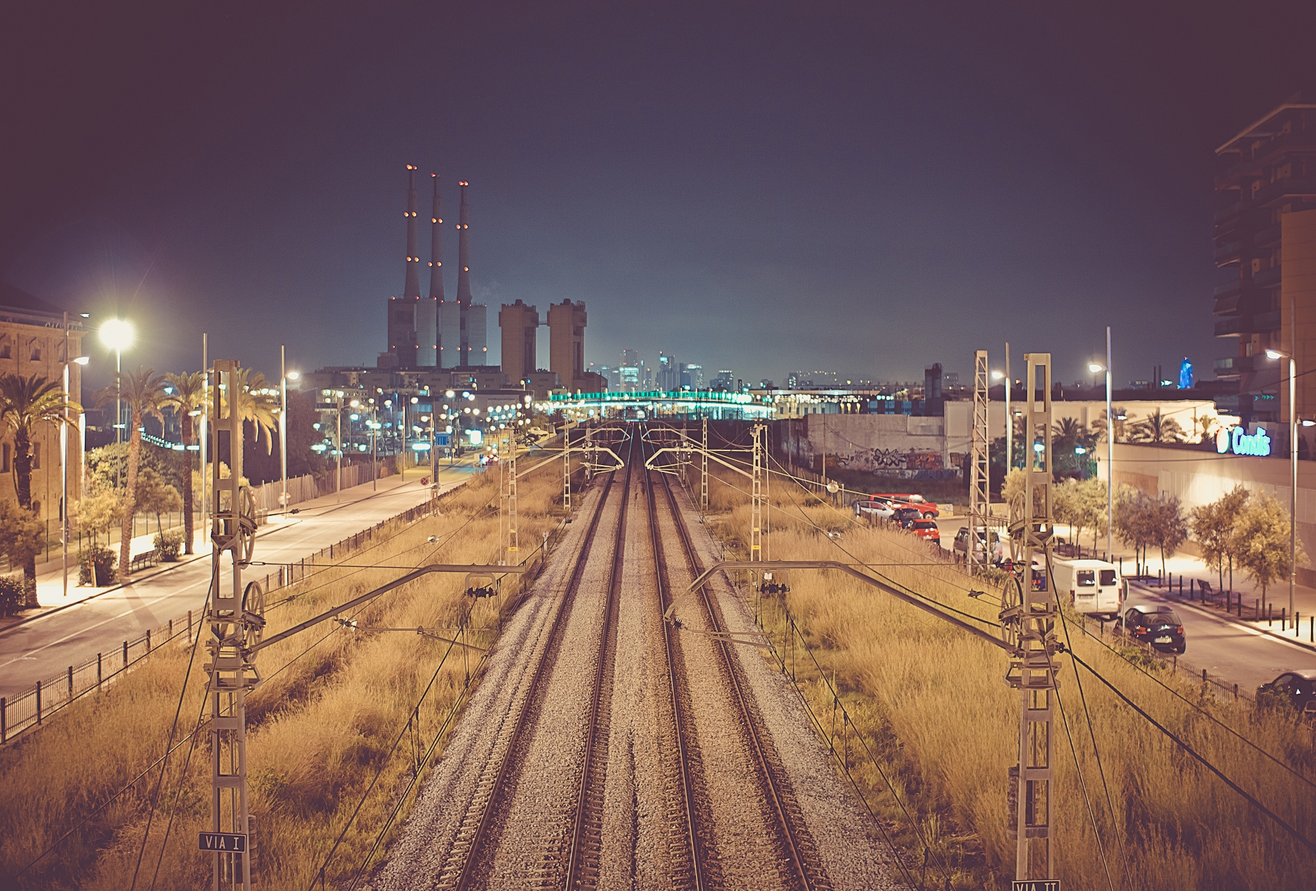
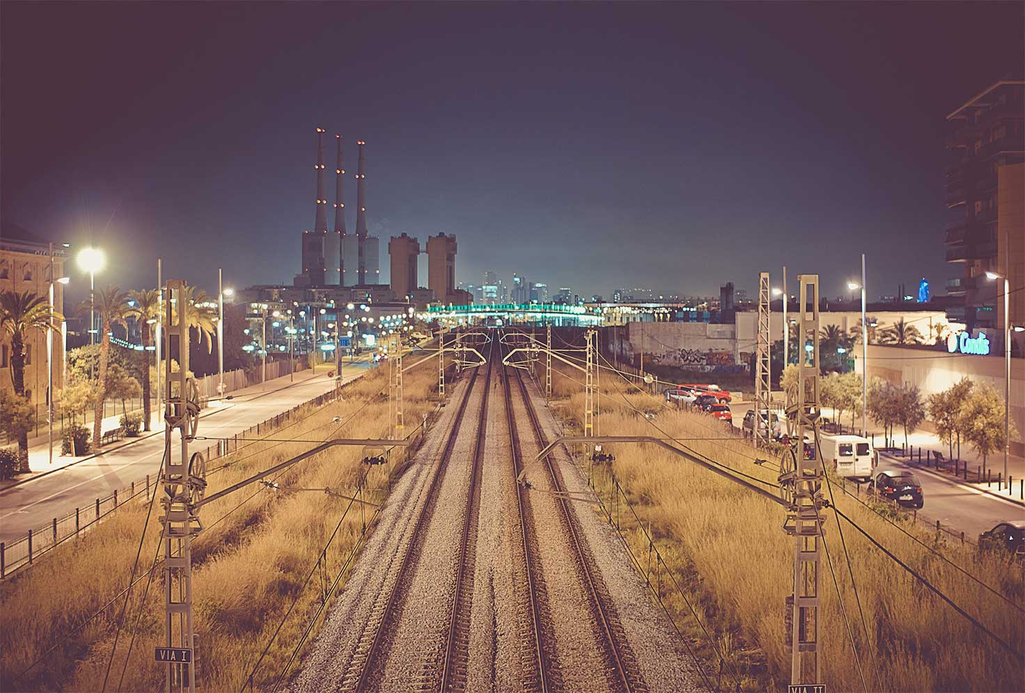
Reducing image sizes

diff --git a/style.min.css b/style.min.css
@@ -1,1 +1,1 @@
-/*! normalize.css v2.1.0 | MIT License | git.io/normalize */article,aside,details,figcaption,figure,footer,header,hgroup,main,nav,section,summary{display:block}audio,canvas,video{display:inline-block}audio:not([controls]){display:none;height:0}[hidden]{display:none}html{font-family:sans-serif;-webkit-text-size-adjust:100%;-ms-text-size-adjust:100%}body{margin:0}a:focus{outline:thin dotted}a:active,a:hover{outline:0}h1{font-size:2em;margin:0.67em 0}abbr[title]{border-bottom:1px dotted}b,strong{font-weight:bold}dfn{font-style:italic}hr{-moz-box-sizing:content-box;box-sizing:content-box;height:0}mark{background:#ff0;color:#000}code,kbd,pre,samp{font-family:monospace, serif;font-size:1em}pre{white-space:pre-wrap}q{quotes:"\201C" "\201D" "\2018" "\2019"}small{font-size:80%}sub,sup{font-size:75%;line-height:0;position:relative;vertical-align:baseline}sup{top:-0.5em}sub{bottom:-0.25em}img{border:0}svg:not(:root){overflow:hidden}figure{margin:0}fieldset{border:1px solid #c0c0c0;margin:0 2px;padding:0.35em 0.625em 0.75em}legend{border:0;padding:0}button,input,select,textarea{font-family:inherit;font-size:100%;margin:0}button,input{line-height:normal}button,select{text-transform:none}button,html input[type="button"],input[type="reset"],input[type="submit"]{-webkit-appearance:button;cursor:pointer}button[disabled],html input[disabled]{cursor:default}input[type="checkbox"],input[type="radio"]{box-sizing:border-box;padding:0}input[type="search"]{-webkit-appearance:textfield;-moz-box-sizing:content-box;-webkit-box-sizing:content-box;box-sizing:content-box}input[type="search"]::-webkit-search-cancel-button,input[type="search"]::-webkit-search-decoration{-webkit-appearance:none}button::-moz-focus-inner,input::-moz-focus-inner{border:0;padding:0}textarea{overflow:auto;vertical-align:top}table{border-collapse:collapse;border-spacing:0}@font-face{font-family:'fonticon';src:url("fonts/fonticon.eot?29587551");src:url("fonts/fonticon.eot?29587551#iefix") format("embedded-opentype"),url("fonts/fonticon.woff?29587551") format("woff"),url("fonts/fonticon.ttf?29587551") format("truetype"),url("fonts/fonticon.svg?29587551#fonticon") format("svg");font-weight:normal;font-style:normal}[class^="icon-"]:before,[class*=" icon-"]:before{font-family:"fonticon";font-style:normal;font-weight:normal;speak:none;display:inline-block;text-decoration:inherit;width:1em;margin-right:.2em;text-align:center;font-variant:normal;text-transform:none;line-height:1em;margin-left:.2em}.icon-prev:before{content:'\e801'}.icon-next:before{content:'\e800'}h1,h2,h3,h4,h5,h6,hgroup,p,ul,ol,dl,address,table,fieldset,figure,pre,hr,.media,.island,.islet,.landmark,dd,.h1,.h2,.h3,.h4,.h5,.h6{margin:0;padding:0}h1,h2,h3,h4,h5,h6,hgroup,p,ul,ol,dl,address,table,fieldset,figure,pre,hr,.media,.island,.islet,.landmark,dd,.h1,.h2,.h3,.h4,.h5,.h6{margin-bottom:24px;margin-bottom:1.5rem}.islet h1,.islet h2,.islet h3,.islet h4,.islet h5,.islet h6,.islet hgroup,.islet p,.islet ul,.islet ol,.islet dl,.islet address,.islet table,.islet fieldset,.islet figure,.islet pre,.islet hr,.islet .media,.islet .island,.islet .islet{margin-bottom:12px;margin-bottom:0.75rem}.landmark{margin-bottom:48px;margin-bottom:3rem}hr{margin-top:24px;margin-top:1.5rem}ul,ol,dd{margin-left:48px;margin-left:3rem}*,*:before,*:after{-webkit-box-sizing:border-box;-moz-box-sizing:border-box;-ms-box-sizing:border-box;-o-box-sizing:border-box;box-sizing:border-box}html{font-size:1em;line-height:1.5}body{font-family:sans-serif;-webkit-font-smoothing:antialiased}h1,h2,h3,h4,h5,h6{font-family:sans-serif;font-weight:500;font-style:normal;text-rendering:optimizeLegibility}h1 small,h2 small,h3 small,h4 small,h5 small,h6 small{font-size:80%}h1,.h1{font-size:48px;font-size:3rem;line-height:1}h2,.h2{font-size:36px;font-size:2.25rem;line-height:1.3333333}h3,.h3{font-size:30px;font-size:1.875rem;line-height:1.6}h4,.h4{font-size:24px;font-size:1.5rem;line-height:1}h5,.h5{font-size:20px;font-size:1.25rem;line-height:1.2}h6,.h6{font-size:18px;font-size:1.125rem;line-height:1.3333333}.lead{font-size:18px;font-size:1.125rem}@-webkit-keyframes sliderBegin{from{left:-31.4%}to{left:-56%}}@-moz-keyframes sliderBegin{from{left:-31.4%}to{left:-56%}}@-ms-keyframes sliderBegin{from{left:-31.4%}to{left:-56%}}@keyframes sliderBegin{from{left:-31.4%}to{left:-56%}}@-webkit-keyframes sliderEnd{from{left:110%}to{left:100.85%}}@-moz-keyframes sliderEnd{from{left:110%}to{left:100.85%}}@-ms-keyframes sliderEnd{from{left:110%}to{left:100.85%}}@keyframes sliderEnd{from{left:110%}to{left:100.85%}}@-webkit-keyframes sliderReverseBegin{from{left:100.85%}to{left:125.45%}}@-moz-keyframes sliderReverseBegin{from{left:100.85%}to{left:125.45%}}@-ms-keyframes sliderReverseBegin{from{left:100.85%}to{left:125.45%}}@keyframes sliderReverseBegin{from{left:100.85%}to{left:125.45%}}@-webkit-keyframes sliderReverseEnd{from{left:-40.55%}to{left:-31.4%}}@-moz-keyframes sliderReverseEnd{from{left:-40.55%}to{left:-31.4%}}@-ms-keyframes sliderReverseEnd{from{left:-40.55%}to{left:-31.4%}}@keyframes sliderReverseEnd{from{left:-40.55%}to{left:-31.4%}}.preload{display:none !important}.slider-control__next,.slider-control__next .slider-control--btn{right:0}.slider-control__prev,.slider-control__prev .slider-control--btn{left:0}body{padding-top:52px}@media screen and (min-width: 30.0625em){body{padding-top:88px}}ul,li{margin-top:0;padding-left:0}ul{list-style:none}a{cursor:pointer;text-decoration:none}.content-slider{overflow:hidden;position:relative}.content-slider:hover .slider-control__prev,.content-slider:hover .slider-control__next{-webkit-transform:translateX(0px);-moz-transform:translateX(0px);-ms-transform:translateX(0px);-o-transform:translateX(0px);transform:translateX(0px)}@media screen and (max-width: 48.75em){.content-slider:hover .slider-control__prev{-webkit-transform:translateX(-10px);-moz-transform:translateX(-10px);-ms-transform:translateX(-10px);-o-transform:translateX(-10px);transform:translateX(-10px)}}@media screen and (max-width: 48.75em){.content-slider:hover .slider-control__next{-webkit-transform:translateX(10px);-moz-transform:translateX(10px);-ms-transform:translateX(10px);-o-transform:translateX(10px);transform:translateX(10px)}}.slider{height:320px;position:relative;max-width:1200px;padding:0 20px;margin:0 auto}@media screen and (min-width: 30.0625em){.slider{height:424px}}.mask{overflow:hidden;height:424px}.slider__item{position:absolute;width:30.6%;height:100%;margin:0;-webkit-transition-property:width,left,opacity;-moz-transition-property:width,left,opacity;-ms-transition-property:width,left,opacity;-o-transition-property:width,left,opacity;transition-property:width,left,opacity;-webkit-transition-duration:800ms;-moz-transition-duration:800ms;-ms-transition-duration:800ms;-o-transition-duration:800ms;transition-duration:800ms;-webkit-transition-timing-function:ease;-moz-transition-timing-function:ease;-ms-transition-timing-function:ease;-o-transition-timing-function:ease;transition-timing-function:ease;-webkit-transform:translate3d(0px, 0px, 0px);-moz-transform:translate3d(0px, 0px, 0px);-ms-transform:translate3d(0px, 0px, 0px);-o-transform:translate3d(0px, 0px, 0px);transform:translate3d(0px, 0px, 0px)}.slider__item a{position:relative;display:block;height:100%}.js-at-bat{width:63.6%;left:1.6%;z-index:1}@media screen and (max-width: 61.25em){.js-at-bat{width:100%;left:0}}.js-on-deck{left:67.8%}@media screen and (max-width: 61.25em){.js-on-deck{left:100%;width:100%}}.js-in-the-hole{left:100.85%;-webkit-opacity:0.3;-moz-opacity:0.3;-ms-opacity:0.3;-o-opacity:0.3;opacity:0.3;-webkit-transition:none;-moz-transition:none;-ms-transition:none;-o-transition:none;transition:none;-webkit-animation-name:sliderBegin,sliderEnd;-moz-animation-name:sliderBegin,sliderEnd;-ms-animation-name:sliderBegin,sliderEnd;-o-animation-name:sliderBegin,sliderEnd;animation-name:sliderBegin,sliderEnd;-webkit-animation-duration:400ms;-moz-animation-duration:400ms;-ms-animation-duration:400ms;-o-animation-duration:400ms;animation-duration:400ms;-webkit-animation-timing-function:ease;-moz-animation-timing-function:ease;-ms-animation-timing-function:ease;-o-animation-timing-function:ease;animation-timing-function:ease;-webkit-animation-delay:0,400ms;-moz-animation-delay:0,400ms;-ms-animation-delay:0,400ms;-o-animation-delay:0,400ms;animation-delay:0,400ms}.slider__reverse .js-in-the-hole{-webkit-animation:none;-moz-animation:none;-ms-animation:none;-o-animation:none;animation:none;-webkit-animation-name:none;-moz-animation-name:none;-ms-animation-name:none;-o-animation-name:none;animation-name:none;-webkit-transition-duration:800ms;-moz-transition-duration:800ms;-ms-transition-duration:800ms;-o-transition-duration:800ms;transition-duration:800ms;-webkit-transition-property:width,left,opacity;-moz-transition-property:width,left,opacity;-ms-transition-property:width,left,opacity;-o-transition-property:width,left,opacity;transition-property:width,left,opacity;-webkit-animation-timing-function:ease;-moz-animation-timing-function:ease;-ms-animation-timing-function:ease;-o-animation-timing-function:ease;animation-timing-function:ease}.js-last-up{left:-31.4%;-webkit-opacity:0.3;-moz-opacity:0.3;-ms-opacity:0.3;-o-opacity:0.3;opacity:0.3}@media screen and (max-width: 61.1875em){.js-last-up{left:-100%;width:100%;-webkit-opacity:1;-moz-opacity:1;opacity:1}}.slider__reverse .js-last-up{-webkit-transition:none;-moz-transition:none;-ms-transition:none;-o-transition:none;transition:none;-webkit-animation-name:sliderReverseBegin,sliderReverseEnd;-moz-animation-name:sliderReverseBegin,sliderReverseEnd;-ms-animation-name:sliderReverseBegin,sliderReverseEnd;-o-animation-name:sliderReverseBegin,sliderReverseEnd;animation-name:sliderReverseBegin,sliderReverseEnd;-webkit-animation-duration:400ms;-moz-animation-duration:400ms;-ms-animation-duration:400ms;-o-animation-duration:400ms;animation-duration:400ms;-webkit-animation-timing-function:ease;-moz-animation-timing-function:ease;-ms-animation-timing-function:ease;-o-animation-timing-function:ease;animation-timing-function:ease;-webkit-animation-delay:0,400ms;-moz-animation-delay:0,400ms;-ms-animation-delay:0,400ms;-o-animation-delay:0,400ms;animation-delay:0,400ms}.block-image{width:100%;height:100%}.background-image{position:absolute;top:0;left:0;width:100%;height:100%;background-position:center center;background-repeat:no-repeat;overflow:hidden;-webkit-background-size:cover;-moz-background-size:cover;-ms-background-size:cover;-o-background-size:cover;background-size:cover}.article-details{position:absolute;bottom:-10px;left:0;right:0;text-shadow:0 1px 2px rgba(0,0,0,0.8);padding:0;border:0 none;background:rgba(0,0,0,0.7);-webkit-opacity:0;-moz-opacity:0;-ms-opacity:0;-o-opacity:0;opacity:0;-webkit-transition-property:opacity,bottom,color;-moz-transition-property:opacity,bottom,color;-ms-transition-property:opacity,bottom,color;-o-transition-property:opacity,bottom,color;transition-property:opacity,bottom,color;-webkit-transition-timing-function:ease;-moz-transition-timing-function:ease;-ms-transition-timing-function:ease;-o-transition-timing-function:ease;transition-timing-function:ease;-webkit-transition-duration:250ms;-moz-transition-duration:250ms;-ms-transition-duration:250ms;-o-transition-duration:250ms;transition-duration:250ms;-webkit-transition-delay:62ms,62ms,0;-moz-transition-delay:62ms,62ms,0;-ms-transition-delay:62ms,62ms,0;-o-transition-delay:62ms,62ms,0;transition-delay:62ms,62ms,0}.article-details h3{margin-bottom:0;font-size:22px;font-size:1.375rem}.article-details a{color:#ffffff;display:block;padding:0 1.4em;line-height:2.5em;text-overflow:ellipsis;-webkit-transition:color 0.15s linear;-moz-transition:color 0.15s linear;-ms-transition:color 0.15s linear;-o-transition:color 0.15s linear;transition:color 0.15s linear}.article-details a:hover{color:#cccccc}.sub-details{color:#FFF;padding:1px 0;max-height:2.5em;overflow:hidden;border-top:1px dotted #FFF;border-top-color:rgba(255,255,255,0.4)}.sub-details .author{float:left;max-width:200px;display:block;padding:0 1.4em;line-height:2.5em;text-overflow:ellipsis}.sub-details a{overflow:hidden;white-space:nowrap}.sub-details .subheading{float:right;border-left:1px dotted #FFF;border-left-color:rgba(255,255,255,0.4);display:block;padding:0 1.4em;line-height:2.5em;text-overflow:ellipsis}.js-at-bat .article-details,.js-on-deck .article-details{bottom:0;-webkit-opacity:1;-moz-opacity:1;-ms-opacity:1;-o-opacity:1;opacity:1}@keyframes fadeIn{0%{opacity:0}100%{opacity:1}}@keyframes fadeOut{0%{opacity:1}100%{opacity:0}}.slider-control{position:absolute;top:25%;bottom:0;width:6%;height:50%;min-width:55px;min-height:60px;width:100px;-webkit-tap-highlight-color:rgba(0,0,0,0);display:block;z-index:1;-webkit-transform:200ms;-moz-transform:200ms;-ms-transform:200ms;-o-transform:200ms;transform:200ms;-webkit-transition:-webkit-transform 200ms;-moz-transition:-moz-transform 200ms;-o-transition:-o-transform 200ms}.slider-control i{color:#cccccc;-webkit-transition:-webkit-transform 200ms;-moz-transition:-moz-transform 200ms;-o-transition:-o-transform 200ms;-webkit-transition-property:left;-moz-transition-property:left;-ms-transition-property:left;-o-transition-property:left;transition-property:left}.slider-control:hover .slider-control--btn{width:64px;background-color:rgba(0,0,0,0.8)}.slider-control:hover i{color:#ffffff}@media screen and (min-width: 61.3125em){.slider-control__prev{-webkit-transform:translateX(-58px);-moz-transform:translateX(-58px);-ms-transform:translateX(-58px);-o-transform:translateX(-58px);transform:translateX(-58px)}}.slider-control__prev:hover i{left:-.4em}@media screen and (min-width: 61.3125em){.slider-control__next{-webkit-transform:translateX(58px);-moz-transform:translateX(58px);-ms-transform:translateX(58px);-o-transform:translateX(58px);transform:translateX(58px)}}.slider-control__next:hover i{right:-.4em}.slider-control--btn{position:absolute;top:50%;width:48px;height:60px;margin-top:-30px;text-align:center;line-height:60px;font-size:2.2em;color:#FFF;background-color:#222;background-color:rgba(0,0,0,0.35);-webkit-transition:background-color 150ms linear;-moz-transition:background-color 150ms linear;-ms-transition:background-color 150ms linear;-o-transition:background-color 150ms linear;transition:background-color 150ms linear;-webkit-transition-property:width;-moz-transition-property:width;-ms-transition-property:width;-o-transition-property:width;transition-property:width}
+/*! normalize.css v2.1.0 | MIT License | git.io/normalize */article,aside,details,figcaption,figure,footer,header,hgroup,main,nav,section,summary{display:block}audio,canvas,video{display:inline-block}audio:not([controls]){display:none;height:0}[hidden]{display:none}html{font-family:sans-serif;-webkit-text-size-adjust:100%;-ms-text-size-adjust:100%}body{margin:0}a:focus{outline:thin dotted}a:active,a:hover{outline:0}h1{font-size:2em;margin:0.67em 0}abbr[title]{border-bottom:1px dotted}b,strong{font-weight:bold}dfn{font-style:italic}hr{-moz-box-sizing:content-box;box-sizing:content-box;height:0}mark{background:#ff0;color:#000}code,kbd,pre,samp{font-family:monospace, serif;font-size:1em}pre{white-space:pre-wrap}q{quotes:"\201C" "\201D" "\2018" "\2019"}small{font-size:80%}sub,sup{font-size:75%;line-height:0;position:relative;vertical-align:baseline}sup{top:-0.5em}sub{bottom:-0.25em}img{border:0}svg:not(:root){overflow:hidden}figure{margin:0}fieldset{border:1px solid #c0c0c0;margin:0 2px;padding:0.35em 0.625em 0.75em}legend{border:0;padding:0}button,input,select,textarea{font-family:inherit;font-size:100%;margin:0}button,input{line-height:normal}button,select{text-transform:none}button,html input[type="button"],input[type="reset"],input[type="submit"]{-webkit-appearance:button;cursor:pointer}button[disabled],html input[disabled]{cursor:default}input[type="checkbox"],input[type="radio"]{box-sizing:border-box;padding:0}input[type="search"]{-webkit-appearance:textfield;-moz-box-sizing:content-box;-webkit-box-sizing:content-box;box-sizing:content-box}input[type="search"]::-webkit-search-cancel-button,input[type="search"]::-webkit-search-decoration{-webkit-appearance:none}button::-moz-focus-inner,input::-moz-focus-inner{border:0;padding:0}textarea{overflow:auto;vertical-align:top}table{border-collapse:collapse;border-spacing:0}@font-face{font-family:'fonticon';src:url("fonts/fonticon.eot?29587551");src:url("fonts/fonticon.eot?29587551#iefix") format("embedded-opentype"),url("fonts/fonticon.woff?29587551") format("woff"),url("fonts/fonticon.ttf?29587551") format("truetype"),url("fonts/fonticon.svg?29587551#fonticon") format("svg");font-weight:normal;font-style:normal}[class^="icon-"]:before,[class*=" icon-"]:before{font-family:"fonticon";font-style:normal;font-weight:normal;speak:none;display:inline-block;text-decoration:inherit;width:1em;margin-right:.2em;text-align:center;font-variant:normal;text-transform:none;line-height:1em;margin-left:.2em}.icon-prev:before{content:'\e801'}.icon-next:before{content:'\e800'}h1,h2,h3,h4,h5,h6,hgroup,p,ul,ol,dl,address,table,fieldset,figure,pre,hr,.media,.island,.islet,.landmark,dd,.h1,.h2,.h3,.h4,.h5,.h6{margin:0;padding:0}h1,h2,h3,h4,h5,h6,hgroup,p,ul,ol,dl,address,table,fieldset,figure,pre,hr,.media,.island,.islet,.landmark,dd,.h1,.h2,.h3,.h4,.h5,.h6{margin-bottom:24px;margin-bottom:1.5rem}.islet h1,.islet h2,.islet h3,.islet h4,.islet h5,.islet h6,.islet hgroup,.islet p,.islet ul,.islet ol,.islet dl,.islet address,.islet table,.islet fieldset,.islet figure,.islet pre,.islet hr,.islet .media,.islet .island,.islet .islet{margin-bottom:12px;margin-bottom:0.75rem}.landmark{margin-bottom:48px;margin-bottom:3rem}hr{margin-top:24px;margin-top:1.5rem}ul,ol,dd{margin-left:48px;margin-left:3rem}*,*:before,*:after{-webkit-box-sizing:border-box;-moz-box-sizing:border-box;-ms-box-sizing:border-box;-o-box-sizing:border-box;box-sizing:border-box}html{font-size:1em;line-height:1.5}body{font-family:sans-serif;-webkit-font-smoothing:antialiased}h1,h2,h3,h4,h5,h6{font-family:sans-serif;font-weight:500;font-style:normal;text-rendering:optimizeLegibility}h1 small,h2 small,h3 small,h4 small,h5 small,h6 small{font-size:80%}h1,.h1{font-size:48px;font-size:3rem;line-height:1}h2,.h2{font-size:36px;font-size:2.25rem;line-height:1.3333333}h3,.h3{font-size:30px;font-size:1.875rem;line-height:1.6}h4,.h4{font-size:24px;font-size:1.5rem;line-height:1}h5,.h5{font-size:20px;font-size:1.25rem;line-height:1.2}h6,.h6{font-size:18px;font-size:1.125rem;line-height:1.3333333}.lead{font-size:18px;font-size:1.125rem}@-webkit-keyframes sliderBegin{from{left:-31.4%}to{left:-56%}}@-moz-keyframes sliderBegin{from{left:-31.4%}to{left:-56%}}@-ms-keyframes sliderBegin{from{left:-31.4%}to{left:-56%}}@keyframes sliderBegin{from{left:-31.4%}to{left:-56%}}@-webkit-keyframes sliderEnd{from{left:110%}to{left:100.85%}}@-moz-keyframes sliderEnd{from{left:110%}to{left:100.85%}}@-ms-keyframes sliderEnd{from{left:110%}to{left:100.85%}}@keyframes sliderEnd{from{left:110%}to{left:100.85%}}@-webkit-keyframes sliderReverseBegin{from{left:100.85%}to{left:125.45%}}@-moz-keyframes sliderReverseBegin{from{left:100.85%}to{left:125.45%}}@-ms-keyframes sliderReverseBegin{from{left:100.85%}to{left:125.45%}}@keyframes sliderReverseBegin{from{left:100.85%}to{left:125.45%}}@-webkit-keyframes sliderReverseEnd{from{left:-40.55%}to{left:-31.4%}}@-moz-keyframes sliderReverseEnd{from{left:-40.55%}to{left:-31.4%}}@-ms-keyframes sliderReverseEnd{from{left:-40.55%}to{left:-31.4%}}@keyframes sliderReverseEnd{from{left:-40.55%}to{left:-31.4%}}.preload{display:none !important}.slider-control__next,.slider-control__next .slider-control--btn{right:0}.slider-control__prev,.slider-control__prev .slider-control--btn{left:0}body{padding-top:52px}@media screen and (min-width: 30.0625em){body{padding-top:88px}}ul,li{margin-top:0;padding-left:0}ul{list-style:none}a{cursor:pointer;text-decoration:none}.content-slider{overflow:hidden;position:relative}.content-slider:hover .slider-control__prev,.content-slider:hover .slider-control__next{-webkit-transform:translateX(0px);-moz-transform:translateX(0px);-ms-transform:translateX(0px);-o-transform:translateX(0px);transform:translateX(0px)}@media screen and (max-width: 48.75em){.content-slider:hover .slider-control__prev{-webkit-transform:translateX(-10px);-moz-transform:translateX(-10px);-ms-transform:translateX(-10px);-o-transform:translateX(-10px);transform:translateX(-10px)}}@media screen and (max-width: 48.75em){.content-slider:hover .slider-control__next{-webkit-transform:translateX(10px);-moz-transform:translateX(10px);-ms-transform:translateX(10px);-o-transform:translateX(10px);transform:translateX(10px)}}.slider{height:320px;position:relative;max-width:1200px;padding:0 20px;margin:0 auto}@media screen and (min-width: 30.0625em){.slider{height:424px}}.mask{overflow:hidden;height:424px}.slider__item{position:absolute;width:30.6%;height:100%;margin:0;-webkit-transition-property:width,left,opacity;-moz-transition-property:width,left,opacity;-ms-transition-property:width,left,opacity;-o-transition-property:width,left,opacity;transition-property:width,left,opacity;-webkit-transition-duration:800ms;-moz-transition-duration:800ms;-ms-transition-duration:800ms;-o-transition-duration:800ms;transition-duration:800ms;-webkit-transition-timing-function:ease;-moz-transition-timing-function:ease;-ms-transition-timing-function:ease;-o-transition-timing-function:ease;transition-timing-function:ease;-webkit-transform:translate3d(0px, 0px, 0px);-moz-transform:translate3d(0px, 0px, 0px);-ms-transform:translate3d(0px, 0px, 0px);-o-transform:translate3d(0px, 0px, 0px);transform:translate3d(0px, 0px, 0px)}.slider__item a{position:relative;display:block;height:100%}.js-at-bat{width:63.6%;left:1.6%;z-index:1}@media screen and (max-width: 61.25em){.js-at-bat{width:100%;left:0}}.js-on-deck{left:67.8%}@media screen and (max-width: 61.25em){.js-on-deck{left:100%;width:100%}}.js-in-the-hole{left:100.85%;-webkit-opacity:0.3;-moz-opacity:0.3;-ms-opacity:0.3;-o-opacity:0.3;opacity:0.3;-webkit-transition:none;-moz-transition:none;-ms-transition:none;-o-transition:none;transition:none;-webkit-animation-name:sliderBegin,sliderEnd;-moz-animation-name:sliderBegin,sliderEnd;-ms-animation-name:sliderBegin,sliderEnd;-o-animation-name:sliderBegin,sliderEnd;animation-name:sliderBegin,sliderEnd;-webkit-animation-duration:400ms;-moz-animation-duration:400ms;-ms-animation-duration:400ms;-o-animation-duration:400ms;animation-duration:400ms;-webkit-animation-timing-function:ease;-moz-animation-timing-function:ease;-ms-animation-timing-function:ease;-o-animation-timing-function:ease;animation-timing-function:ease;-webkit-animation-delay:0,400ms;-moz-animation-delay:0,400ms;-ms-animation-delay:0,400ms;-o-animation-delay:0,400ms;animation-delay:0,400ms}.slider__reverse .js-in-the-hole{-webkit-animation:none;-moz-animation:none;-ms-animation:none;-o-animation:none;animation:none;-webkit-animation-name:none;-moz-animation-name:none;-ms-animation-name:none;-o-animation-name:none;animation-name:none;-webkit-transition-duration:800ms;-moz-transition-duration:800ms;-ms-transition-duration:800ms;-o-transition-duration:800ms;transition-duration:800ms;-webkit-transition-property:width,left,opacity;-moz-transition-property:width,left,opacity;-ms-transition-property:width,left,opacity;-o-transition-property:width,left,opacity;transition-property:width,left,opacity;-webkit-animation-timing-function:ease;-moz-animation-timing-function:ease;-ms-animation-timing-function:ease;-o-animation-timing-function:ease;animation-timing-function:ease}.js-last-up{left:-31.4%;-webkit-opacity:0.3;-moz-opacity:0.3;-ms-opacity:0.3;-o-opacity:0.3;opacity:0.3}@media screen and (max-width: 61.1875em){.js-last-up{left:-100%;width:100%;-webkit-opacity:1;-moz-opacity:1;opacity:1}}.slider__reverse .js-last-up{-webkit-transition:none;-moz-transition:none;-ms-transition:none;-o-transition:none;transition:none;-webkit-animation-name:sliderReverseBegin,sliderReverseEnd;-moz-animation-name:sliderReverseBegin,sliderReverseEnd;-ms-animation-name:sliderReverseBegin,sliderReverseEnd;-o-animation-name:sliderReverseBegin,sliderReverseEnd;animation-name:sliderReverseBegin,sliderReverseEnd;-webkit-animation-duration:400ms;-moz-animation-duration:400ms;-ms-animation-duration:400ms;-o-animation-duration:400ms;animation-duration:400ms;-webkit-animation-timing-function:ease;-moz-animation-timing-function:ease;-ms-animation-timing-function:ease;-o-animation-timing-function:ease;animation-timing-function:ease;-webkit-animation-delay:0,400ms;-moz-animation-delay:0,400ms;-ms-animation-delay:0,400ms;-o-animation-delay:0,400ms;animation-delay:0,400ms}.block-image{width:100%;height:100%}.background-image{position:absolute;top:0;left:0;width:100%;height:100%;background-position:center center;background-repeat:no-repeat;overflow:hidden;-webkit-background-size:cover;-moz-background-size:cover;-ms-background-size:cover;-o-background-size:cover;background-size:cover}.article-details{position:absolute;bottom:-10px;left:0;right:0;text-shadow:0 1px 2px rgba(0,0,0,0.8);padding:0;border:0 none;background:rgba(0,0,0,0.7);-webkit-opacity:0;-moz-opacity:0;-ms-opacity:0;-o-opacity:0;opacity:0;-webkit-transition-property:opacity,bottom,color;-moz-transition-property:opacity,bottom,color;-ms-transition-property:opacity,bottom,color;-o-transition-property:opacity,bottom,color;transition-property:opacity,bottom,color;-webkit-transition-timing-function:ease;-moz-transition-timing-function:ease;-ms-transition-timing-function:ease;-o-transition-timing-function:ease;transition-timing-function:ease;-webkit-transition-duration:250ms;-moz-transition-duration:250ms;-ms-transition-duration:250ms;-o-transition-duration:250ms;transition-duration:250ms;-webkit-transition-delay:62ms,62ms,0;-moz-transition-delay:62ms,62ms,0;-ms-transition-delay:62ms,62ms,0;-o-transition-delay:62ms,62ms,0;transition-delay:62ms,62ms,0}.article-details h3{margin-bottom:0;font-size:22px;font-size:1.375rem}.article-details a{color:#ffffff;display:block;padding:0 1.4em;line-height:2.5em;text-overflow:ellipsis;-webkit-transition:color 0.15s linear;-moz-transition:color 0.15s linear;-ms-transition:color 0.15s linear;-o-transition:color 0.15s linear;transition:color 0.15s linear}.article-details a:hover{color:#cccccc}.sub-details{color:#FFF;padding:1px 0;max-height:2.5em;overflow:hidden;border-top:1px dotted #FFF;border-top-color:rgba(255,255,255,0.4)}.sub-details .author{float:left;max-width:200px;display:block;padding:0 1.4em;line-height:2.5em;text-overflow:ellipsis}.sub-details a{overflow:hidden;white-space:nowrap}.sub-details .subheading{float:right;border-left:1px dotted #FFF;border-left-color:rgba(255,255,255,0.4);display:block;padding:0 1.4em;line-height:2.5em;text-overflow:ellipsis}.js-at-bat .article-details,.js-on-deck .article-details{bottom:0;-webkit-opacity:1;-moz-opacity:1;-ms-opacity:1;-o-opacity:1;opacity:1}@keyframes fadeIn{0%{opacity:0}100%{opacity:1}}@keyframes fadeOut{0%{opacity:1}100%{opacity:0}}.slider-control{position:absolute;top:25%;bottom:0;width:6%;height:50%;min-width:55px;min-height:60px;width:100px;-webkit-tap-highlight-color:rgba(0,0,0,0);display:block;z-index:1;-webkit-transform:200ms;-moz-transform:200ms;-ms-transform:200ms;-o-transform:200ms;transform:200ms;-webkit-transition:-webkit-transform 200ms;-moz-transition:-moz-transform 200ms;-o-transition:-o-transform 200ms}.slider-control i{color:#cccccc;-webkit-transition:-webkit-transform 200ms;-moz-transition:-moz-transform 200ms;-o-transition:-o-transform 200ms;-webkit-transition-property:left;-moz-transition-property:left;-ms-transition-property:left;-o-transition-property:left;transition-property:left}.slider-control:hover .slider-control--btn{width:64px;background-color:rgba(0,0,0,0.8)}.slider-control:hover i{color:#ffffff}.slider-control__prev{-webkit-transform:translateX(-58px);-moz-transform:translateX(-58px);-ms-transform:translateX(-58px);-o-transform:translateX(-58px);transform:translateX(-58px)}.slider-control__prev:hover i{left:-.4em}.slider-control__next{-webkit-transform:translateX(58px);-moz-transform:translateX(58px);-ms-transform:translateX(58px);-o-transform:translateX(58px);transform:translateX(58px)}.slider-control__next:hover i{right:-.4em}.slider-control--btn{position:absolute;top:50%;width:48px;height:60px;margin-top:-30px;text-align:center;line-height:60px;font-size:2.2em;color:#FFF;background-color:#222;background-color:rgba(0,0,0,0.35);-webkit-transition:background-color 150ms linear;-moz-transition:background-color 150ms linear;-ms-transition:background-color 150ms linear;-o-transition:background-color 150ms linear;transition:background-color 150ms linear;-webkit-transition-property:width;-moz-transition-property:width;-ms-transition-property:width;-o-transition-property:width;transition-property:width}

diff --git a/style.scss b/style.scss
@@ -326,9 +326,8 @@ a{
 .slider-control__prev{
 	@extend %position--left;
 	
-	@include mq(981px) {
-		@include vendor(transform, translateX(-58px));
-	}	
+	@include vendor(transform, translateX(-58px));
+	
 	.slider-control--btn{
 		@extend %position--left;
 	}
@@ -342,9 +341,7 @@ a{
 
 .slider-control__next{
 	@extend %position--right;
-	@include mq(981px) {
 		@include vendor(transform, translateX(58px));
-	}
 	
 	.slider-control--btn{
 		@extend %position--right;
